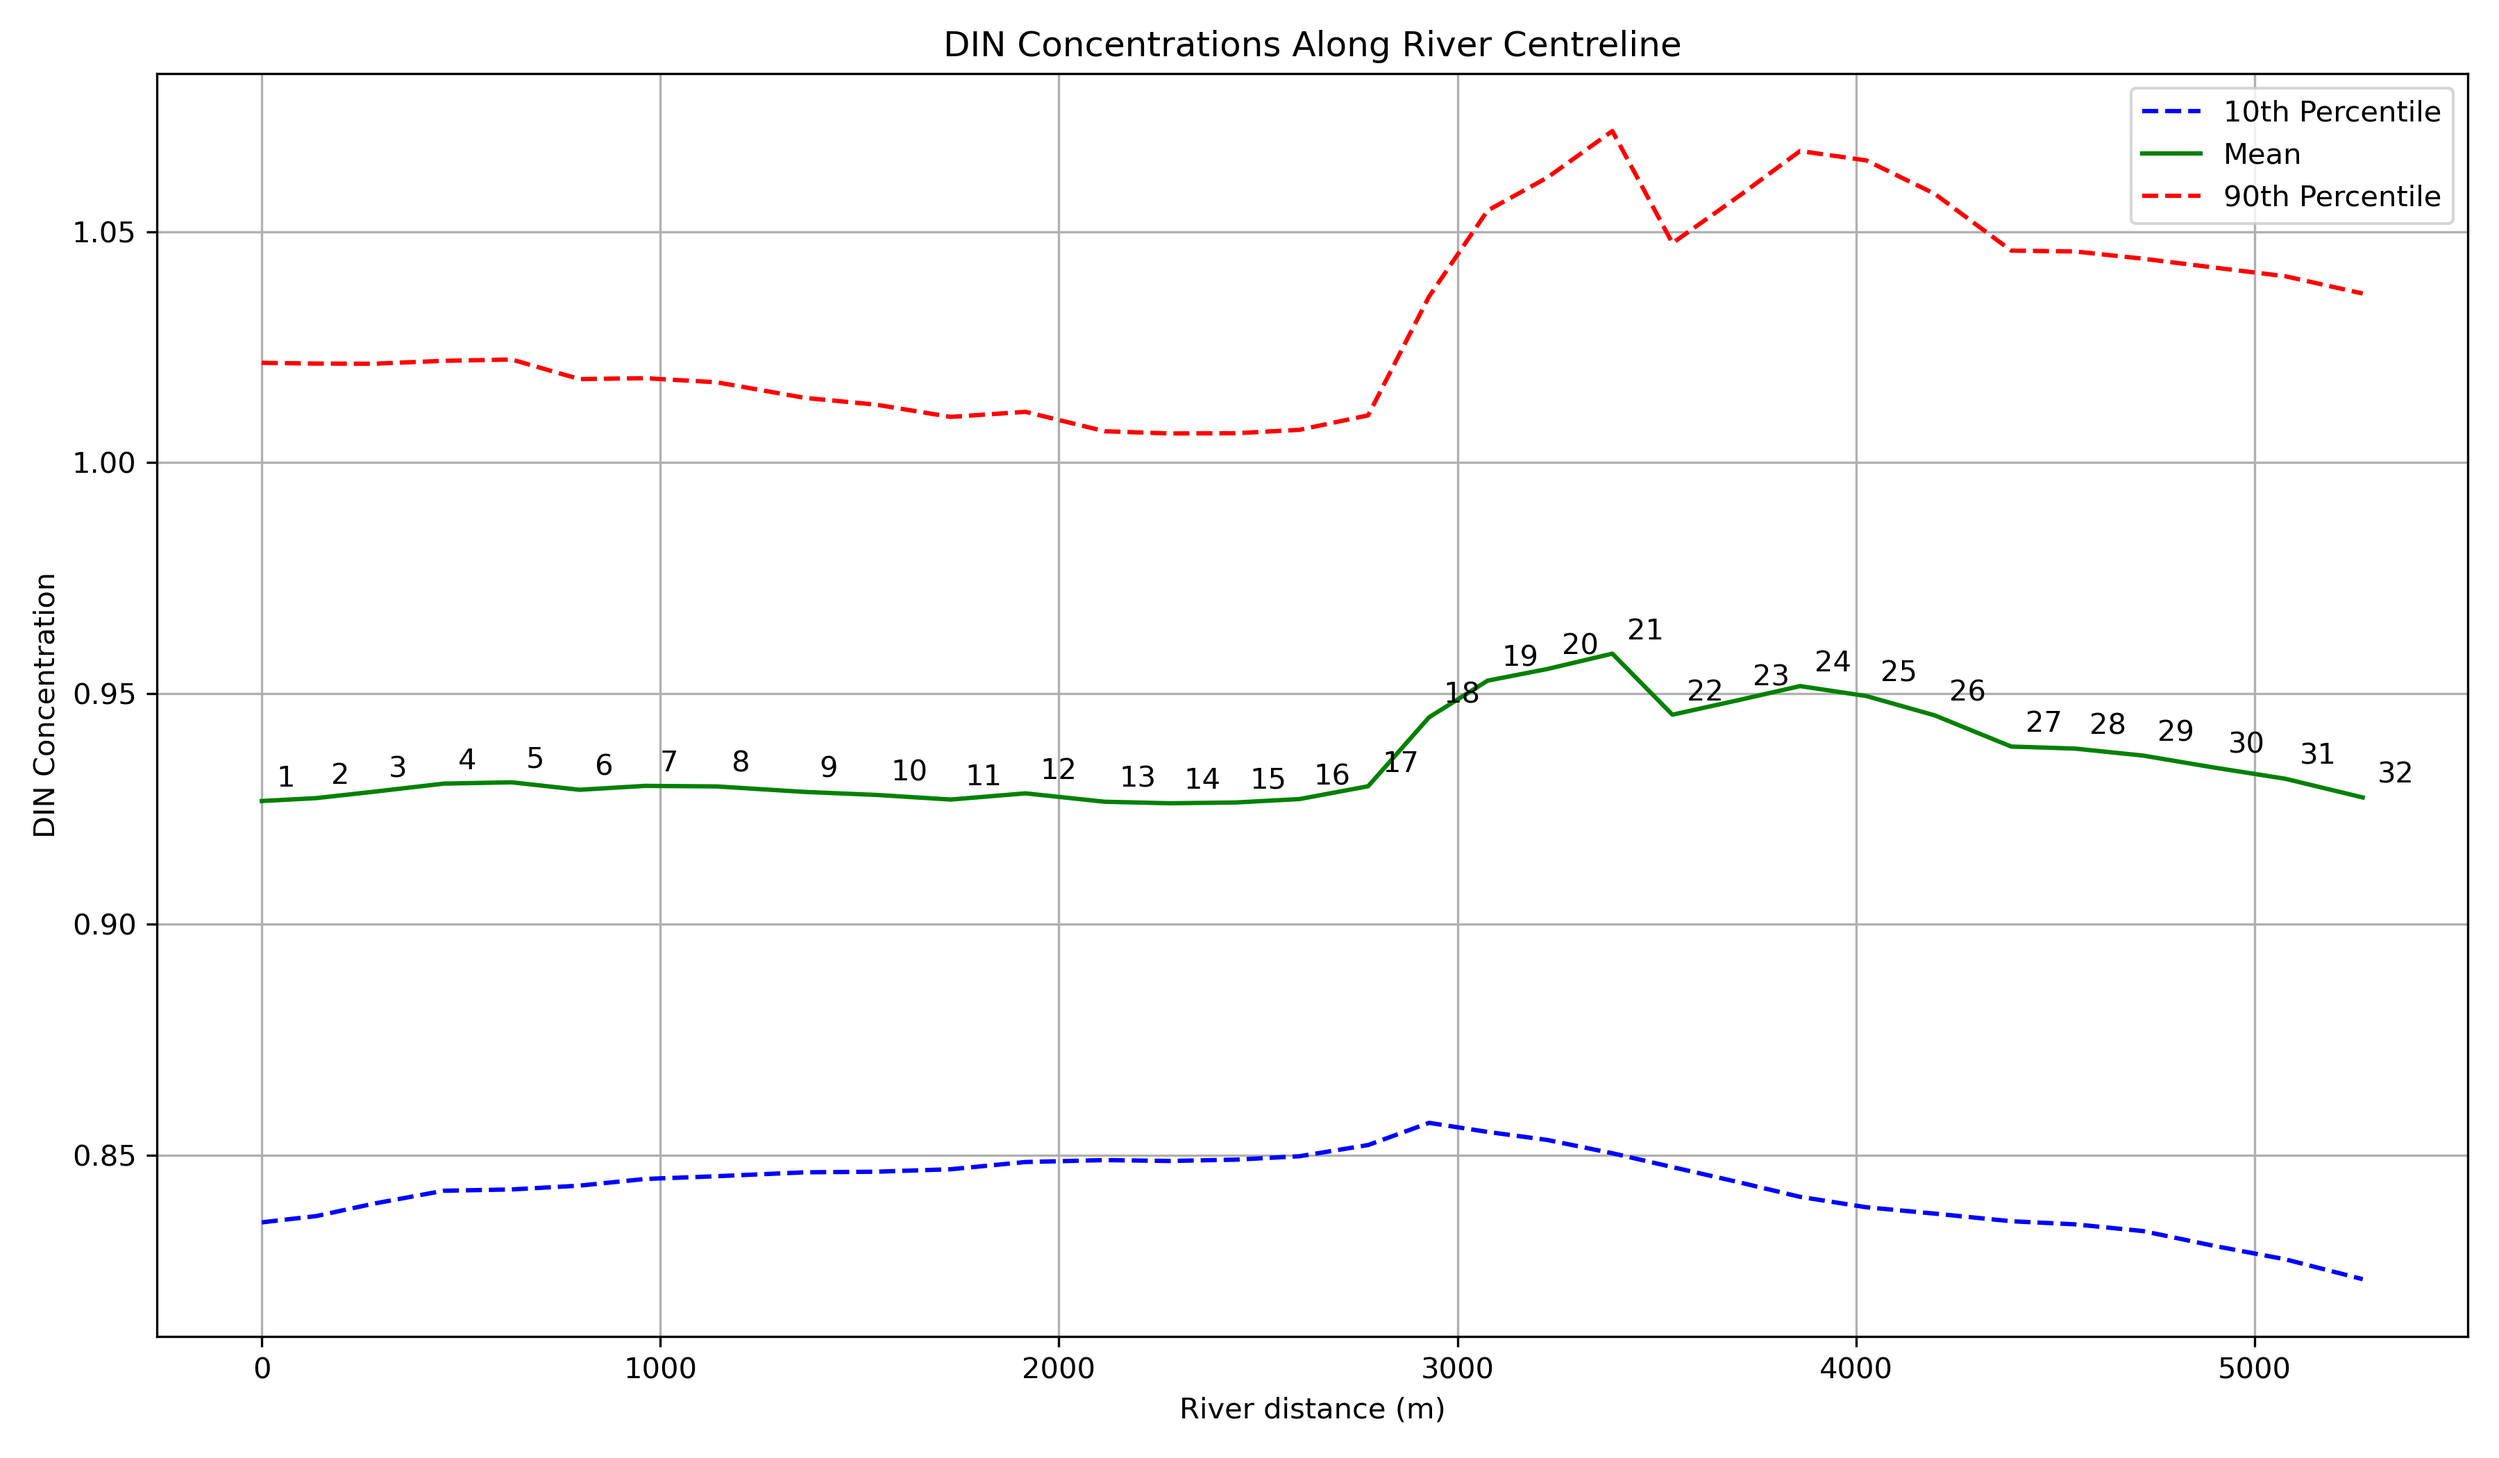
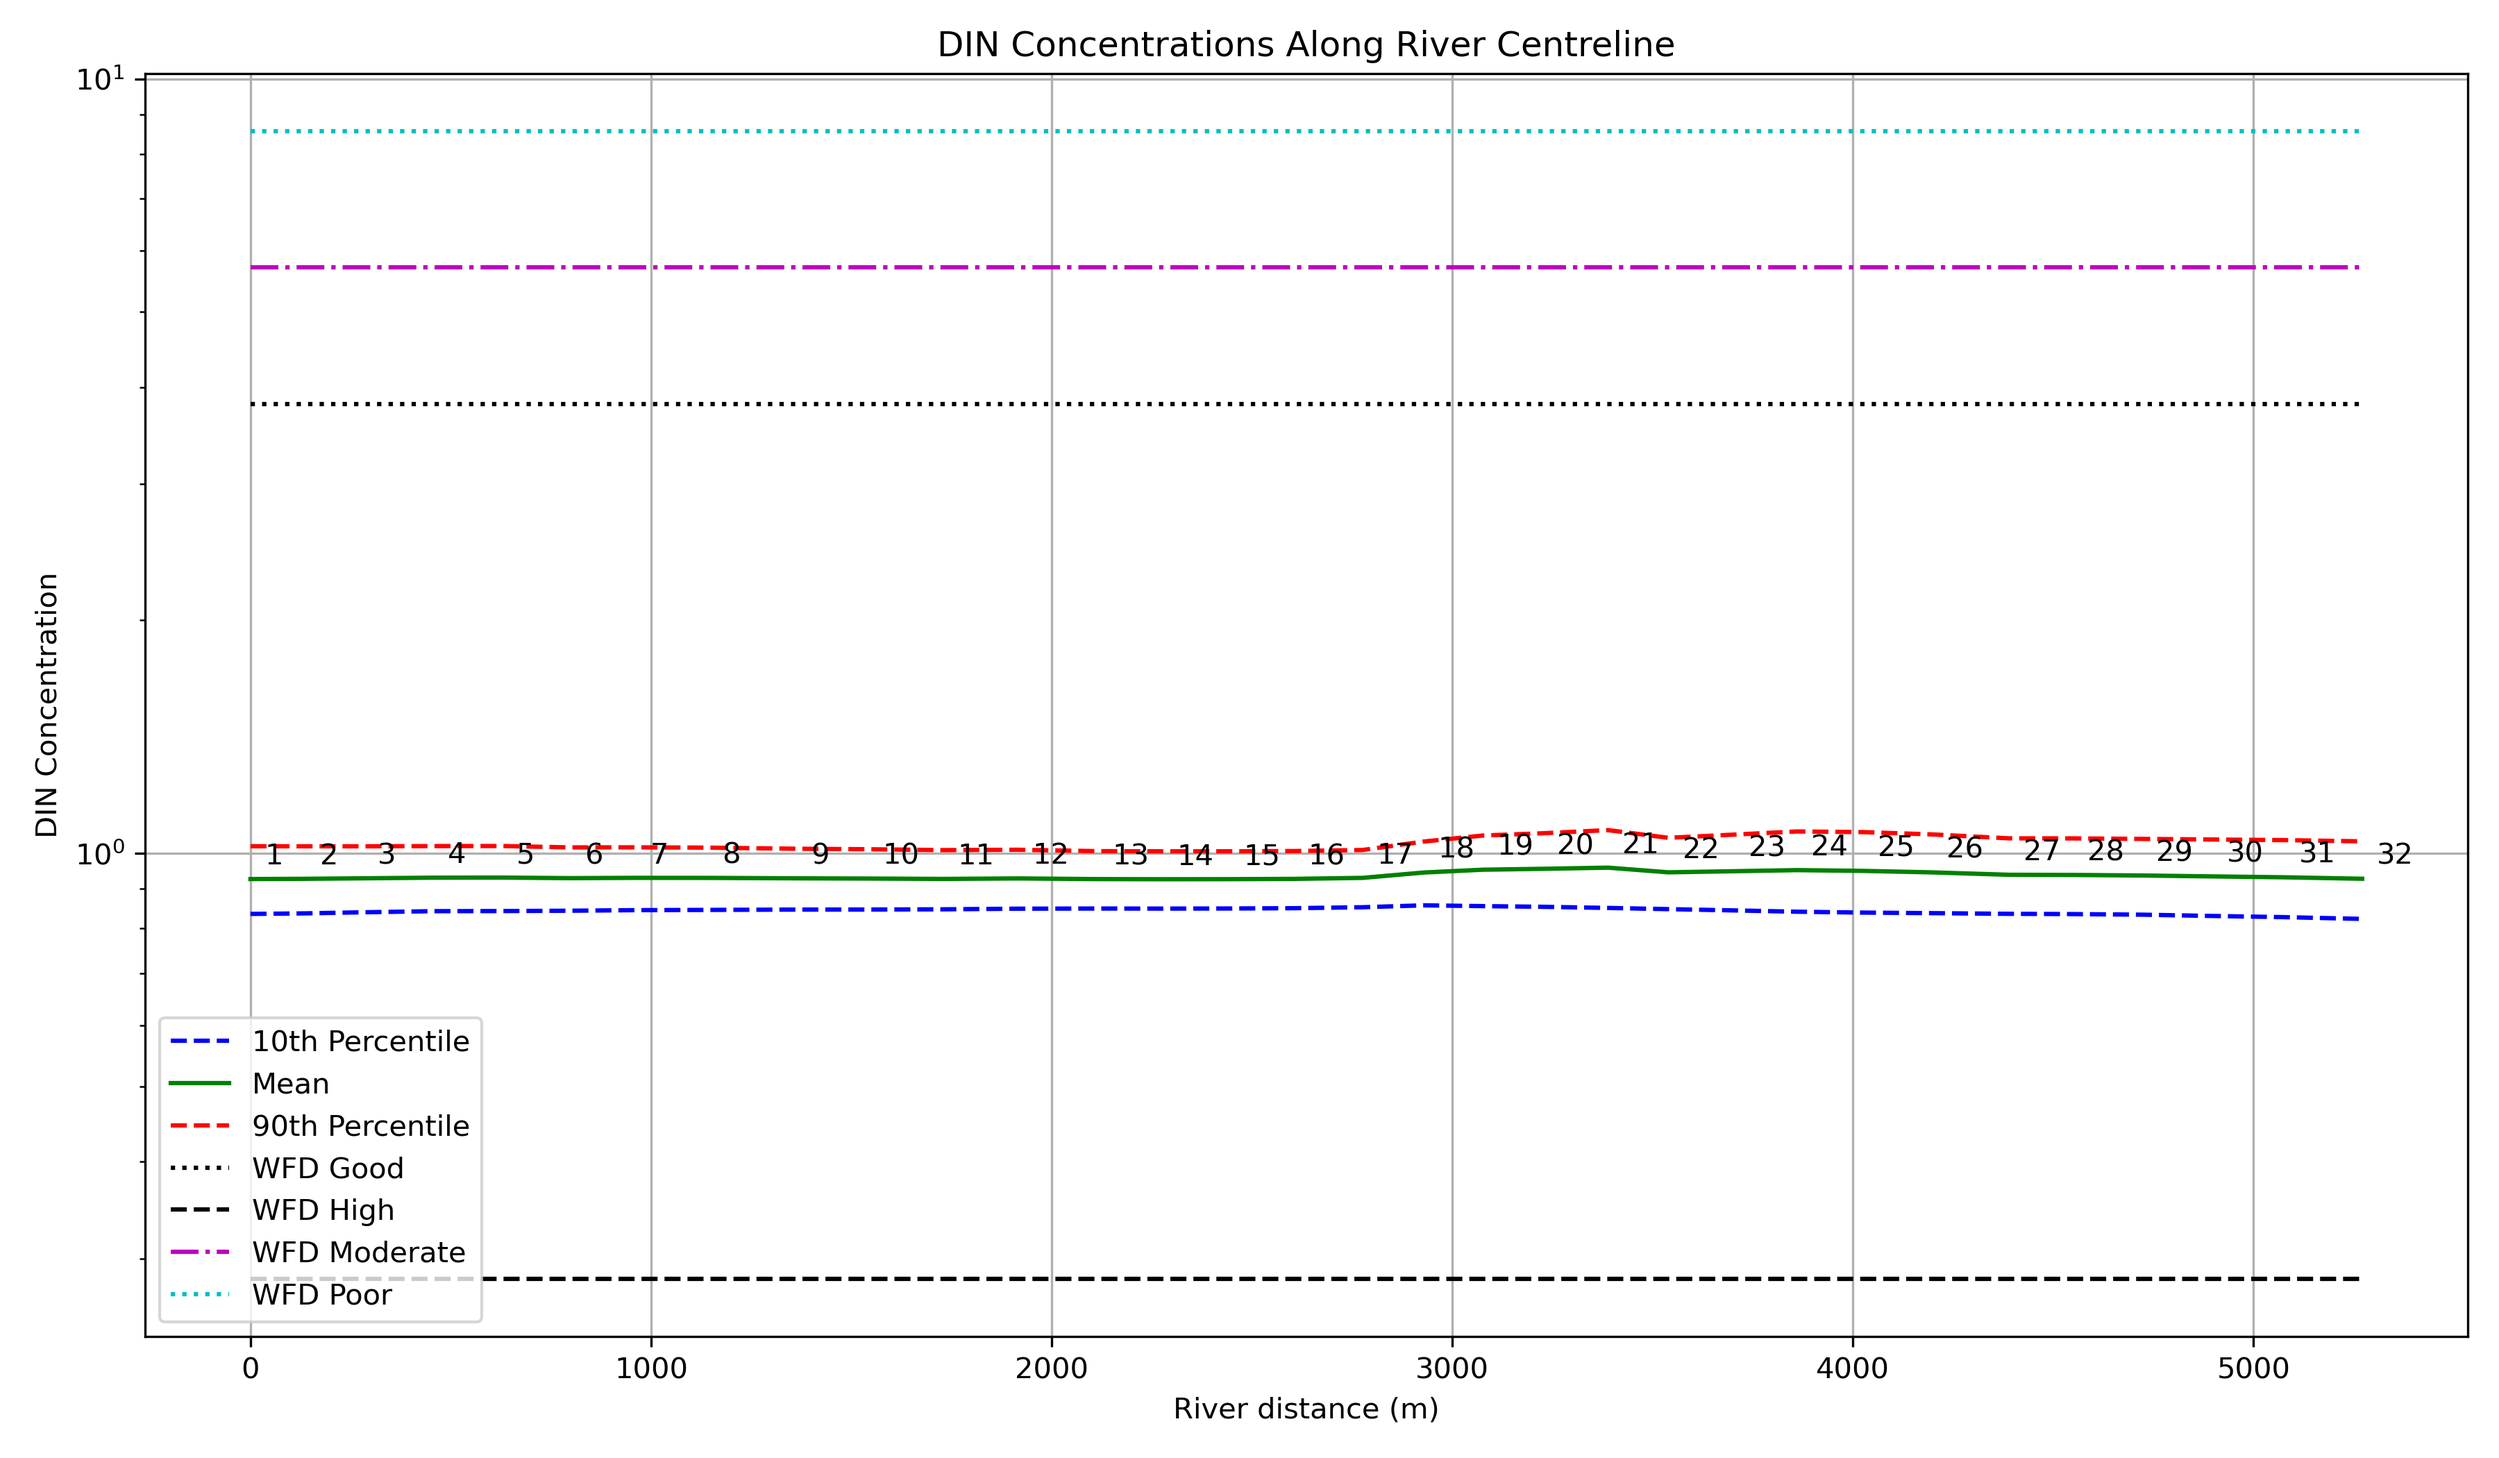
Added WFD performance

diff --git a/example_river_length.py b/example_river_length.py
@@ -27,6 +27,9 @@ transect.get_din_std_dev()
 transect.calculate_din_percentile(10)  # 10th percentile
 transect.calculate_din_percentile(90)  # 90th percentile
 
+# Calculate WFD performance
+transect.wfd_performance()
+
 # Create a single plot with all three percentiles
 fig, ax = plt.subplots(figsize=(12, 7))
 
@@ -34,6 +37,10 @@ fig, ax = plt.subplots(figsize=(12, 7))
 ax.plot(transect.df['distance'], transect.df['din_percentile_10'], 'b--', label='10th Percentile')
 ax.plot(transect.df['distance'], transect.df['mean_din'], 'g-', label='Mean')
 ax.plot(transect.df['distance'], transect.df['din_percentile_90'], 'r--', label='90th Percentile')
+ax.plot(transect.df['distance'], transect.df['WFD Good'], 'k:', label='WFD Good')
+ax.plot(transect.df['distance'], transect.df['WFD High'], 'k--', label='WFD High')
+ax.plot(transect.df['distance'], transect.df['WFD Moderate'], 'm-.', label='WFD Moderate')
+ax.plot(transect.df['distance'], transect.df['WFD Poor'], 'c:', label='WFD Poor')
 
 # Add labels and title
 ax.set_xlabel('River distance (m)')
@@ -41,6 +48,7 @@ ax.set_ylabel('DIN Concentration')
 ax.set_title('DIN Concentrations Along River Centreline')
 ax.legend()
 ax.grid(True)
+ax.set_yscale('log')  # Set y-axis to log scale
 
 # Add point markers with their original IDs from the CSV
 for i, row_id in enumerate(df['id']):

diff --git a/river_transect.py b/river_transect.py
@@ -180,6 +180,15 @@ class RiverTransect:
         self.df['mean_din'] = self.df['Mesh2D_2d_MEAN_FullRun_cTR2'] + self.df['Mesh2D_2d_MEAN_FullRun_cTR4']
         
         return True
+    
+    def wfd_performance(self):
+        
+        self.df['WFD High'] = 0.282
+        self.df['WFD Good'] = 3.807
+        self.df['WFD Moderate'] = 5.7105
+        self.df['WFD Poor'] = 8.56575
+        
+        return True
 
     def get_din_std_dev(self):
         """
